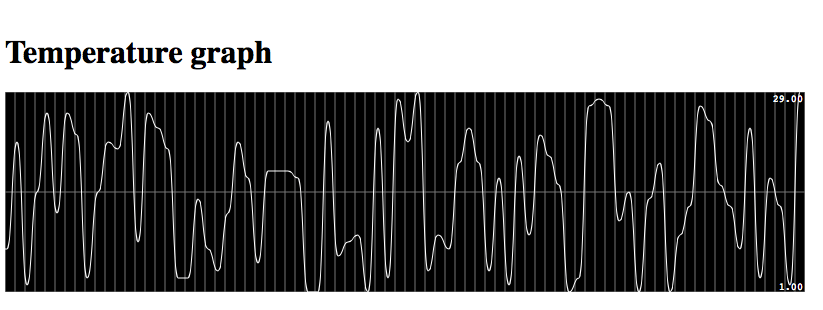
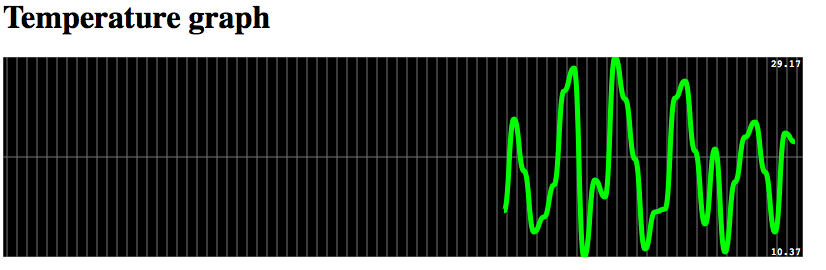
Easier to read temperature graph

diff --git a/frontend/public/index.html b/frontend/public/index.html
@@ -29,8 +29,11 @@
 	});
 	smoothie.streamTo(document.getElementById("temperature"));
 	var temperature_line = new TimeSeries();
-	smoothie.addTimeSeries(temperature_line);
-
+	smoothie.addTimeSeries(temperature_line, {
+		lineWidth: 5,
+		strokeStyle: "#00ff00"
+	});
+	
 	// Radar graph
 	// Note: this is an ugly use of a radar char.
 	var nodes = {};
